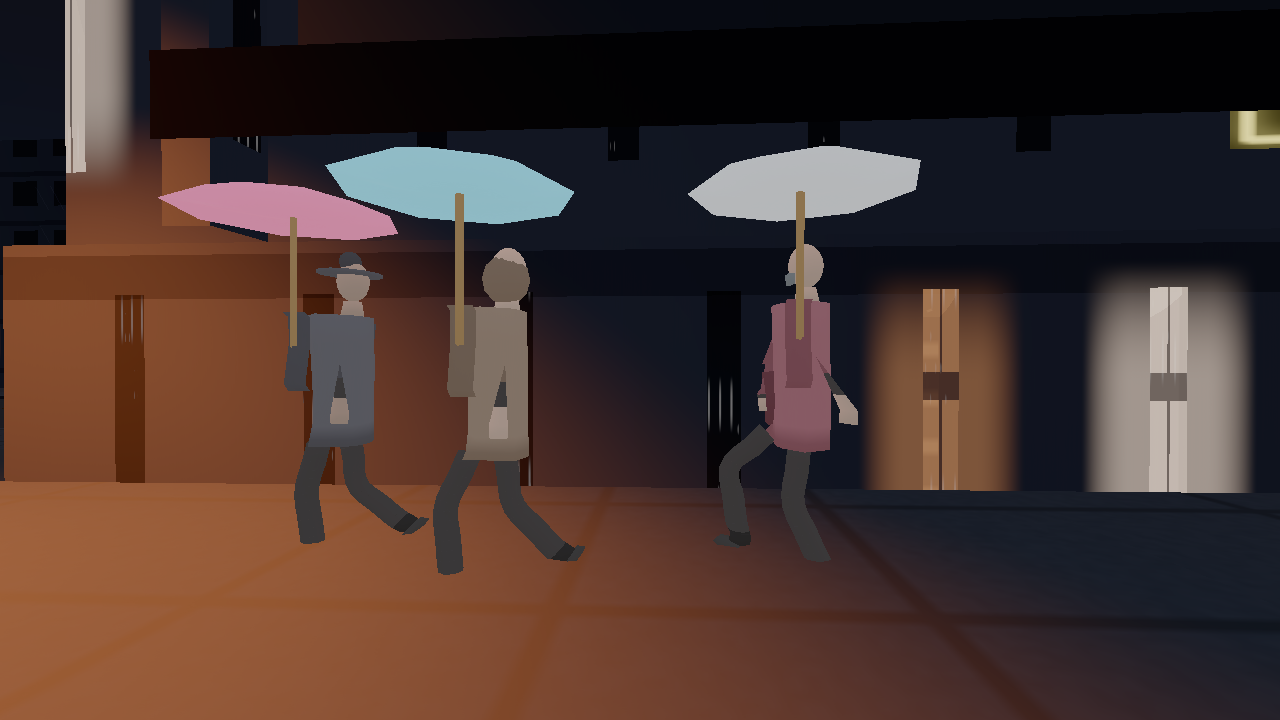
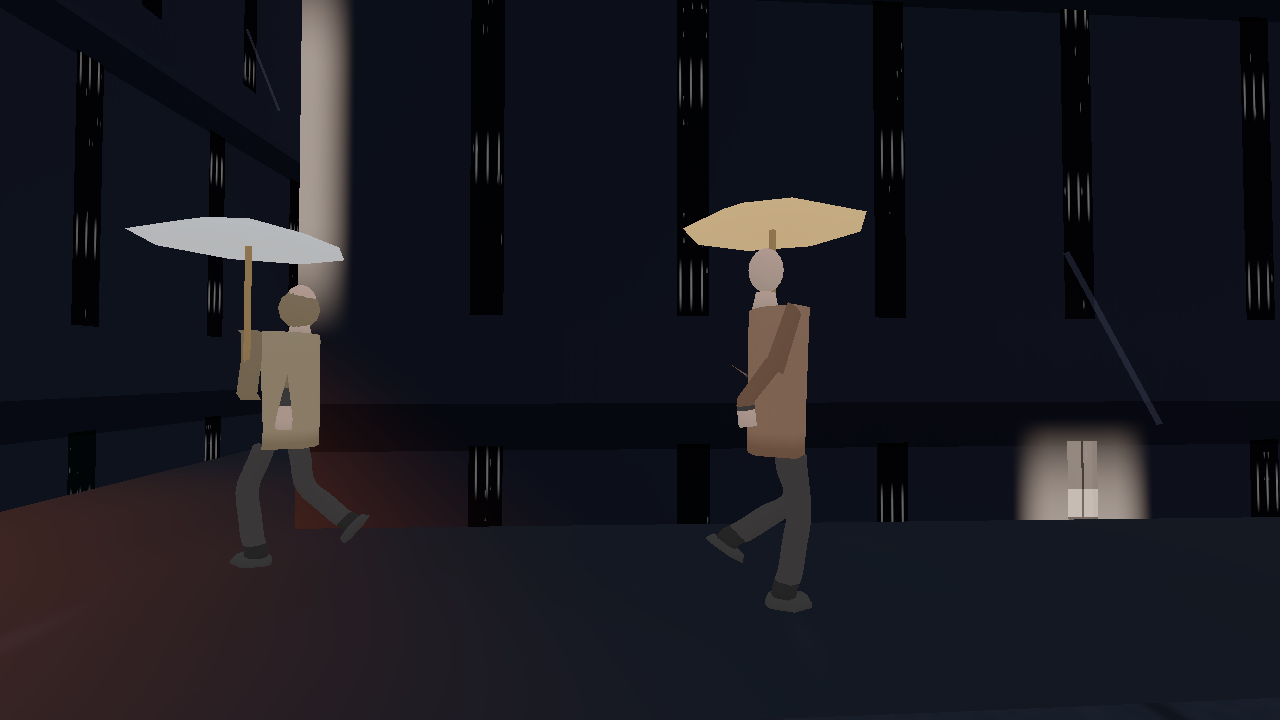
Keep the coat's back closed and park the car clear of the walker.
The rear hem was following both thighs, which opened a pale slot down the coat. The back stays on the coat bone. The ultra doorway keeps the umbrella walker beside the lit door and the car fully in the lane.

diff --git a/src/world/humans/crowdRig.ts b/src/world/humans/crowdRig.ts
@@ -173,16 +173,14 @@ function crowdMaterial(palette: Texture, atlas: Texture): MeshStandardNodeMateri
     T.smoothstep(0.28, 0.64, y),
     upper,
   );
-  // The whole hem, front and back included, follows the thigh on that side.
-  // A profile shot looks at the front and back of the cloth. Leaving those on
-  // the chest while the pants swing forward is the gap under the coat.
-  // Long hem is 0.74 m. Short jacket hem is 0.96 m.
+  // The side and the front of the hem follow the thigh, so a profile does not
+  // open a gap under the cloth. The back stays on the coat bone. Letting both
+  // thighs pull the back panels apart is the pale slot down the coat.
   const hemLong = T.float(1).sub(T.smoothstep(0.74, 1.08, y));
   const hemShort = T.float(1).sub(T.smoothstep(0.96, 1.24, y));
   const isCoat = isLong.add(isShort);
-  // Opposite thighs pull the left and right hem apart and open a slot down
-  // the back. The centre cloth stays on the coat bone so the vent stays shut.
-  const hemEdge = T.smoothstep(0.05, 0.2, T.abs(rest.x));
+  const onBack = T.smoothstep(0.02, -0.08, rest.z);
+  const hemEdge = T.smoothstep(0.08, 0.22, T.abs(rest.x)).mul(T.float(1).sub(onBack));
   const coatW = T.mix(hemLong, hemShort, isShort).mul(hemEdge);
   const hemThigh = T.mix(T.float(4), T.float(7), T.step(T.float(0), rest.x));
   const bone1 = T.mix(T.mix(stored, shinId, isLeg), T.float(16), isCoat);
